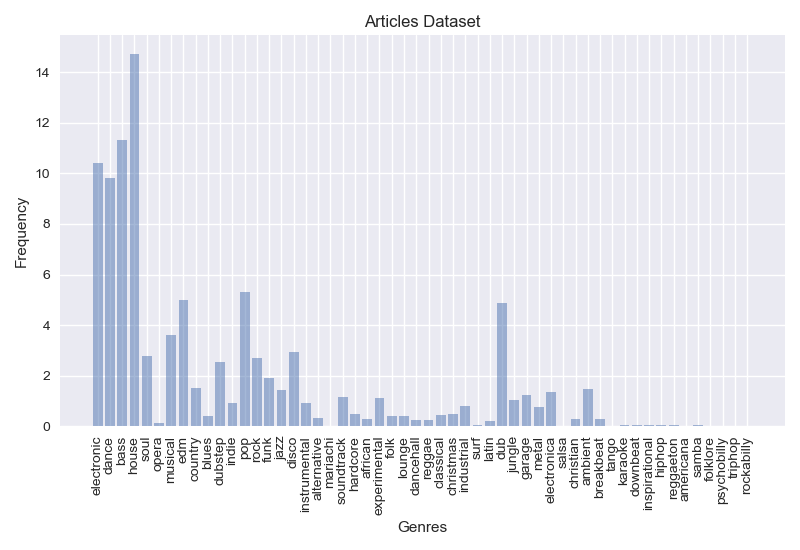
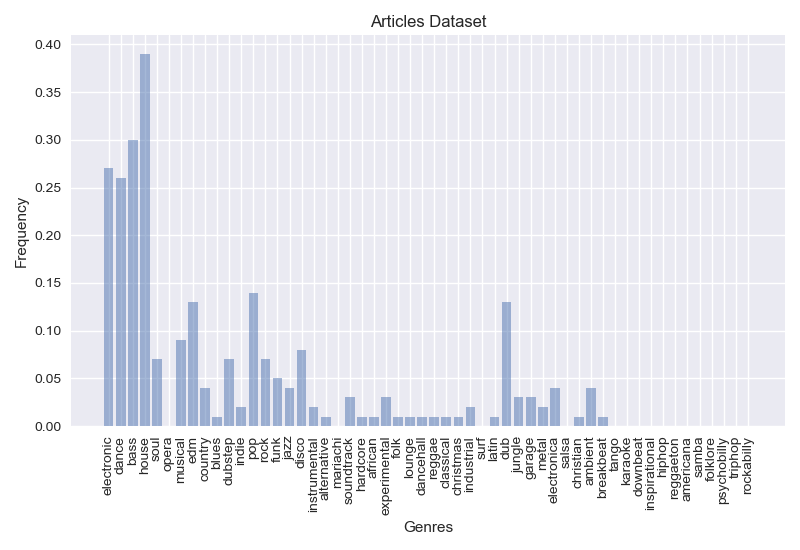
Added Entity Linking Model

diff --git a/statistical_analysis.py b/statistical_analysis.py
@@ -1,4 +1,5 @@
 # Import packages
+from __future__ import unicode_literals, print_function
 from pymongo import MongoClient
 import matplotlib.pyplot as plt
 plt.rcdefaults()
@@ -7,8 +8,18 @@ import datetime
 import re
 from matplotlib.ticker import MaxNLocator
 import pendulum
+import json
 
 plt.style.use('seaborn')
+
+# Imports to train Spacy's NER Model
+import plac
+import random
+from pathlib import Path
+import spacy
+from spacy.util import minibatch, compounding
+import os
+
 
 # Simple statistical analysis class for the following metrics:
 # 1) Number of characters per article title
@@ -87,7 +98,7 @@ class StatisticalAnalysis:
                 collection_metrics_data.append(article_stats)
 
             # Create Histogram for every collection's metrics/per article
-            # self.create_collection_histograms(collection, collection_metrics_data)
+            self.create_collection_histograms(collection, collection_metrics_data)
 
             self.metrics_data = self.metrics_data + collection_metrics_data
 
@@ -98,7 +109,7 @@ class StatisticalAnalysis:
             else:
                 outlier_collections[item[0]] = 1
 
-        print(outlier_collections)
+        print('Collections with outliers are : {}'.format(outlier_collections))
 
     # Calculate number of articles per day
     def analyse_site_activity(self):
@@ -356,38 +367,39 @@ class StatisticalAnalysis:
                     self.term_freq.update({k: round(v, 2)})
 
             # Create Bar Charts for every collection's term frequency data
-            # genres = []
-            # f_values = []
-            # for tf in collection_tf_data:
-            #     if tf > 0:
-            #         index = collection_tf_data.index(tf)
-            #         genres.append(genres_list[index])
-            #         f_values.append(tf)
-            #
-            # y_pos = np.arange(len(genres))
-            # plt.bar(y_pos, f_values, align='center', alpha=0.5)
-            # plt.xticks(y_pos, genres, rotation=90)
-            # plt.ylabel('Frequency')
-            # plt.xlabel('Genres')
-            # plt.title('Collection : {}'.format(collection))
-            # plt.tight_layout()
-            # plt.savefig(str(str(collection) + '_bc' + '.png'))
-            # plt.show()
+            genres = []
+            f_values = []
+            for tf in collection_tf_data:
+                if tf > 0:
+                    index = collection_tf_data.index(tf)
+                    genres.append(genres_list[index])
+                    f_values.append(tf)
+
+            y_pos = np.arange(len(genres))
+            plt.bar(y_pos, f_values, align='center', alpha=0.5)
+            plt.xticks(y_pos, genres, rotation=90)
+            plt.ylabel('Frequency')
+            plt.xlabel('Genres')
+            plt.title('Collection : {}'.format(collection))
+            plt.tight_layout()
+            plt.savefig(str(str(collection) + '_bc' + '.png'))
+            plt.show()
 
         # Insert total genre term frequencies data for all the collections
-        # self.genres_term_frequency.insert_one({'item1': self.term_freq})
+        self.genres_term_frequency.insert_one({'item1': self.term_freq})
 
-        # self.create_normalized_bc()
+        self.create_normalized_bc()
 
         # Insert total genres tf time-series data for all collections // Create tf time-series diagrams
-        # timeseries_data = list(map(lambda x, y: [x, y], genres_list, self.terms_dates))
-        # self.genres_term_frequency.insert_one({'item': timeseries_data})
-        # self.create_tf_timelines()
+        timeseries_data = list(map(lambda x, y: [x, y], genres_list, self.terms_dates))
+        self.genres_term_frequency.insert_one({'item': timeseries_data})
+        self.create_tf_timelines()
 
         print('Number of posts containing at least 1 genre term: {}'.format(self.genre_posts_no))
 
     # Create TF Bar-Chart from the total dataset terms data
     def create_normalized_bc(self):
+        collect = len(self.articles_conn)
         genres_data = self.genres_term_frequency.find()
         bc_data = dict()
         for item in genres_data:
@@ -400,7 +412,7 @@ class StatisticalAnalysis:
         norm_values = list()
 
         for genre in genres:
-            norm_values.append(round(bc_data[genre], 2))
+            norm_values.append(round(bc_data[genre]/collect, 2))
 
         y_pos = np.arange(len(genres))
         plt.bar(y_pos, norm_values, align='center', alpha=0.5)
@@ -474,7 +486,7 @@ class StatisticalAnalysis:
             ax.tick_params(which='major', length=0)
             ax.set_xticklabels(months, minor=True)
             plt.title('Genre Term : {}\n Months : {} / {}'.format(genre, ', '.join(months), year))
-            # plt.savefig(str(str(genre)+'.png'), bbox_inches='tight')
+            plt.savefig(str(str(genre)+'.png'), bbox_inches='tight')
         plt.show()
 
     # Concatenate the time-series data for every month /  Returns total terms appearance data per week of the year
@@ -658,12 +670,117 @@ class StatisticalAnalysis:
 
         plt.show()
 
+    # Count total dataset articles
     def count_articles(self):
         total_articles = int()
         for collection in self.articles_conn:
             articles = list(self.db.get_collection(collection).find())
             total_articles += len(articles)
         return total_articles
+
+    # Format the EDML entity linking data to the required format by Spacy
+    def format_traindata(self):
+        tdata = []
+        file_id = 1
+        while file_id <= 13009:
+            with open(f"C:\\Users\\Dimitris_Zaro\\Desktop\\Projects\\Sites_Monitoring\\elmd2\\json ({file_id}).json") \
+                      as json_file:
+                data = json.load(json_file)
+                for item in data:
+                    if len(item['entities']) > 0:
+                        for ent in item['entities']:
+                            if ent['category'] == 'Artist':
+                                td = (item['text'], {'entities': [(ent['startChar'], ent['endChar'], ent['category'])]})
+                                tdata.append(td)
+                            if ent['category'] == 'Album':
+                                td = (item['text'], {'entities': [(ent['startChar'], ent['endChar'], ent['category'])]})
+                                tdata.append(td)
+            file_id += 1
+        random.shuffle(tdata)
+        return tdata
+
+    # Load the trained NER model
+    def load_NER(self):
+        dir_path = os.path.dirname(os.path.realpath(__file__))+'\\ner'
+        nlp2 = spacy.load(dir_path)
+        # test the trained model
+        test_text = ""
+        doc = nlp2(test_text)
+        print("Entities in '%s'" % test_text)
+        if len(doc.ents) > 0:
+            for ent in doc.ents:
+                print(ent.label_, ent.text)
+        else:
+            print('No entities found.')
+
+
+# Training the NER Model for the new "Artist" entity
+@plac.annotations(
+    model=("Model name. Defaults to blank 'en' model.", "option", "m", str),
+    new_model_name=("New model name for model meta.", "option", "nm", str),
+    output_dir=("Optional output directory", "option", "o", Path),
+    n_iter=("Number of training iterations", "option", "n", int),
+)
+def main(model=None, new_model_name="Music Data", output_dir=os.path.dirname(os.path.realpath(__file__))+'\\ner', n_iter=5):
+    LABEL_1 = 'Artist'
+    LABEL_2 = 'Album'
+    stat = StatisticalAnalysis()
+    TRAIN_DATA = stat.format_traindata()
+    """Set up the pipeline and entity recognizer, and train the new entity."""
+    random.seed(0)
+    if model is not None:
+        nlp = spacy.load(model)  # load existing spaCy model
+        print("Loaded model '%s'" % model)
+    else:
+        nlp = spacy.blank("en")  # create blank Language class
+        print("Created blank 'en' model")
+    # Add entity recognizer to model if it's not in the pipeline
+    # nlp.create_pipe works for built-ins that are registered with spaCy
+    if "ner" not in nlp.pipe_names:
+        ner = nlp.create_pipe("ner")
+        nlp.add_pipe(ner)
+    # otherwise, get it, so we can add labels to it
+    else:
+        ner = nlp.get_pipe("ner")
+
+    ner.add_label(LABEL_1)  # add new entity label to entity recognizer
+    ner.add_label(LABEL_2)  # add new entity label to entity recognizer
+    if model is None:
+        optimizer = nlp.begin_training()
+    else:
+        optimizer = nlp.resume_training()
+    move_names = list(ner.move_names)
+    # get names of other pipes to disable them during training
+    other_pipes = [pipe for pipe in nlp.pipe_names if pipe != "ner"]
+
+    with nlp.disable_pipes(*other_pipes):  # only train NER
+        sizes = compounding(1.0, 4.0, 1.001)
+        # batch up the examples using spaCy's minibatch
+        for itn in range(n_iter):
+            random.shuffle(TRAIN_DATA)
+            batches = minibatch(TRAIN_DATA, size=sizes)
+            losses = {}
+            for batch in batches:
+                texts, annotations = zip(*batch)
+                nlp.update(texts, annotations, sgd=optimizer, drop=0.35, losses=losses)
+            print("Losses", losses)
+
+    # test the trained model
+    test_text = "House pioneer Larry Heard is reportedly releasing" \
+                " a new album early next year, according to Resident Advisor."
+    doc = nlp(test_text)
+    print("Entities in '%s'" % test_text)
+    for ent in doc.ents:
+        print(ent.label_, ent.text)
+
+    # save model to output directory
+    if output_dir is not None:
+        output_dir = Path(output_dir)
+        if not output_dir.exists():
+            output_dir.mkdir()
+        nlp.meta["name"] = new_model_name  # rename model
+        nlp.to_disk(output_dir)
+        print("Saved model to", output_dir)
 
 
 if __name__ == "__main__":
@@ -672,7 +789,10 @@ if __name__ == "__main__":
     # stat.calculate_article_metrics()
     # stat.create_histograms()
     # print(stat.count_articles())
-    stat.create_tf_timelines()
+    # stat.create_tf_timelines()
     # stat.create_normalized_bc()
     # stat.analyse_site_activity()
     # stat.calculate_genres_frequency()
+    # artists_train = stat.format_traindata()
+    plac.call(main)
+    # stat.load_NER()
